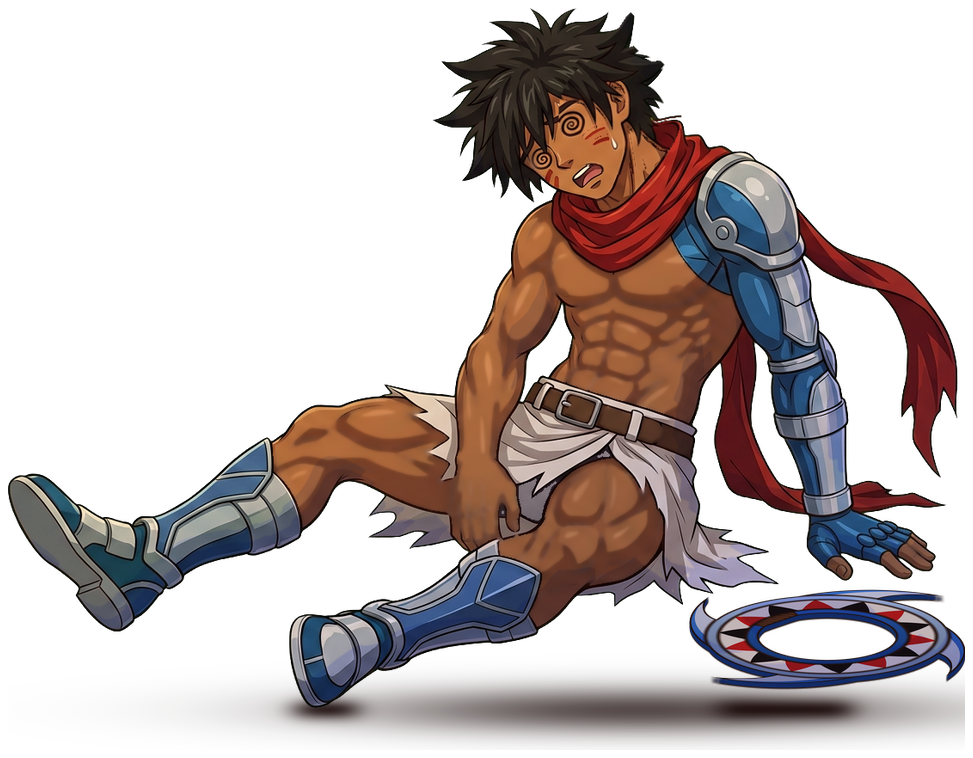
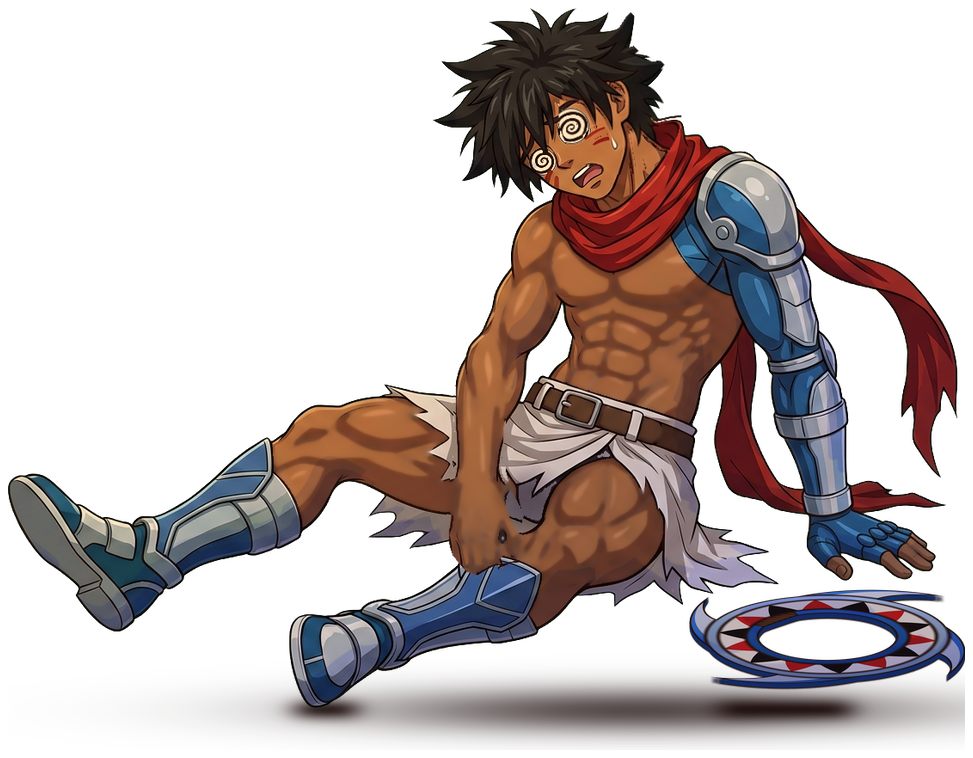
Characters r22 against the judges' round j18: a sprint lean (chest bent about 11.5 degrees at the hips plus a 4-degree slant, eased with the ground speed), a hang that keeps swinging with legs trailing the swing, bandits graded to the rocks' shade plum (muted, half the contrast), a KO still with rea

Changed region(s): [[0.4625, 0.5462, 0.5858, 0.7586], [0.5242, 0.1214, 0.6166, 0.2427]]

diff --git a/New/tools/art/hero_atlas_ai.py b/New/tools/art/hero_atlas_ai.py
@@ -497,6 +497,123 @@ def loincloth(a, still):
     return out
 
 
+## (round 22, the judges: "his swirl eyes read as dark smudges at phone size") the knock-out still's two swirl eyes (source
+## px: the spiral's middle and its outer radius), drawn bigger (grown from their top, so the brows and lids stay) as a
+## pale eye with the spiral inked on it: the classic dizzy eyes, readable at phone size
+KO_EYES = ((658.0, 138.0, 15.5), (621.5, 176.0, 12.5))
+KO_EYE_GROW = 1.2
+KO_EYE_WHITE = np.array([0.95, 0.92, 0.86])
+KO_EYE_INK = np.array([0.13, 0.06, 0.04])
+
+
+def ko_eyes(a):
+    """(round 22) The knock-out's swirl eyes (KO_EYES) redrawn KO_EYE_GROW times bigger: a pale eye (KO_EYE_WHITE), the old
+    spiral's dark lines on it in a dark brown ink, a thin ring of that ink round it; his hair, the red paint on his cheek
+    and the lines round the old eye (the brows, the lids, the cheek's outline) kept over it."""
+    out = a.copy()
+    rgb, al = a[..., :3], a[..., 3]
+    L = _lum(rgb)
+    sat = (rgb.max(-1) - rgb.min(-1)) / np.maximum(rgb.max(-1), 1e-4)
+    hair = ndi.binary_dilation(ndi.binary_opening((L < 0.14) & (sat < 0.6) & (al > 0.5), iterations=2), iterations=1)
+    red = (rgb[..., 0] > 0.45) & (rgb[..., 1] < 0.3) & (rgb[..., 0] > 1.6 * rgb[..., 1])
+    for cx, cy, r in KO_EYES:
+        s = KO_EYE_GROW
+        ax, ay = cx, cy - r  # grown from its top
+        R = (r + 1.0) * s  # the new eye's radius
+        ncx, ncy = ax + (cx - ax) * s, ay + (cy - ay) * s
+        x0, y0 = int(ncx - R - 3), int(ncy - R - 3)
+        x1, y1 = int(ncx + R + 4), int(ncy + R + 4)
+        yy, xx = np.mgrid[y0:y1, x0:x1].astype(np.float64)
+        d = np.hypot(xx - ncx, yy - ncy)
+        inside = np.clip(R + 0.5 - d, 0, 1)
+        sx, sy = ax + (xx - ax) / s, ay + (yy - ay) / s  # the old eye's px it shows
+        Ls = ndi.map_coordinates(L.astype(np.float64), [sy, sx], order=1)
+        line = np.clip((0.36 - Ls) / 0.18, 0, 1) * (np.hypot(sx - cx, sy - cy) <= r + 1.0)
+        ring = np.clip(1.0 - np.abs(d - (R - 0.9)) / 1.0, 0, 1)
+        ink = np.maximum(line, ring)[..., None]
+        eye = KO_EYE_WHITE * (1 - ink) + KO_EYE_INK * ink
+        old = np.hypot(xx - cx, yy - cy)
+        sl = (slice(y0, y1), slice(x0, x1))
+        keep = hair[sl] | red[sl] | ((L[sl] < 0.3) & (old > r + 2.0))
+        w = (inside * (al[sl] > 0.5) * ~keep)[..., None]
+        out[sl][..., :3] = rgb[sl] * (1 - w) + eye * w
+    return out
+
+
+## (round 22, the judges: "the KO's legs spread at the camera with a hand by the crotch") his bare hand moved off his
+## crotch onto his knee: the forearm and hand traced in the source's px (KO_ARM, just outside their ink), the forearm
+## stretched from KO_ARM_TOP down to the wrist (KO_WRIST) so the hand comes KO_HAND_DOWN px lower, its fingers over the
+## knee guard's rim; where the hand was, the cloth beside it carried in
+KO_ARM = [(521, 400), (521, 500), (519, 530), (516, 550), (513, 575), (513, 595), (517, 606), (525, 616), (534, 625),
+          (548, 630), (561, 628), (573, 620), (584, 615), (593, 614), (598, 606), (597, 592), (592, 579), (584, 565),
+          (579, 552), (576, 540), (575, 520), (575, 490), (577, 460), (579, 400)]
+KO_ARM_TOP, KO_WRIST = 440.0, 545.0
+KO_HAND_DOWN = 30.0
+
+
+def ko_hand(a):
+    """(round 22) The knock-out's bare hand resting on his knee guard instead of by his crotch (KO_ARM): the cloth seen
+    beside it left where it is; the arm drawn again, its forearm stretched and its hand moved down; each run of
+    a row of the scene it uncovers carried in from the side of the old arm it touches (the cloth beside the hand)."""
+    h, w = a.shape[:2]
+    rgb = a[..., :3]
+    L = _lum(rgb)
+    sat = (rgb.max(-1) - rgb.min(-1)) / np.maximum(rgb.max(-1), 1e-4)
+    trace = _polygon((h, w), KO_ARM)
+    behind = ((sat < 0.3) & (L > 0.22)) | ((rgb[..., 2] >= rgb[..., 0]) & (L > 0.06))  # cloth (grey, the navy left)
+    arm = ndi.binary_fill_holes(trace & ~ndi.binary_opening(behind, iterations=1)) & trace  # (the gap between fingers kept)
+    layer = a.astype(np.float64)
+    layer[..., 3] *= ndi.gaussian_filter(arm.astype(np.float64), 0.5) * ndi.binary_dilation(arm)
+    layer[..., :3] *= layer[..., 3:4]
+    yy, xx = np.mgrid[0:h, 0:w].astype(np.float64)
+    top, wrist, down = KO_ARM_TOP, KO_WRIST, KO_HAND_DOWN
+    sy = np.where(yy < wrist + down, top + (yy - top) * (wrist - top) / (wrist + down - top), yy - down)
+    sy = np.where(yy < top, yy, sy)
+    moved = np.dstack([ndi.map_coordinates(layer[..., c], [sy, xx], order=1) for c in range(4)])
+    hole = ndi.binary_dilation(arm, iterations=3)
+    hole[:int(top)] = False
+    shown = hole & (moved[..., 3] < 0.98)
+    base = a.astype(np.float64)
+    for y in np.nonzero(shown.any(1))[0]:
+        hx = np.nonzero(hole[y])[0]
+        lo, hi = hx.min(), hx.max()
+        xs = np.nonzero(shown[y])[0]
+        for run in np.split(xs, np.nonzero(np.diff(xs) > 1)[0] + 1):
+            s, e = run[0], run[-1]
+            n = e - s + 1
+            for x in run:
+                if e >= hi - 1:
+                    src = x + n
+                elif s <= lo + 1:
+                    src = x - n
+                else:
+                    src = 2 * (lo - 1) - x if x - lo < hi - x else 2 * (hi + 1) - x
+                base[y, x] = a[y, int(np.clip(src, 0, w - 1))]
+    pb = base.copy()
+    pb[..., :3] *= pb[..., 3:4]
+    comp = moved + pb * (1 - moved[..., 3:4])
+    ca = comp[..., 3:4]
+    out = base
+    out[..., :3] = np.where(ca > 1e-4, comp[..., :3] / np.maximum(ca, 1e-4), 0)
+    out[..., 3] = ca[..., 0]
+    return np.clip(out, 0, 1).astype(a.dtype)
+
+
+## (round 22) the shade under his loincloth (source px: middle x, y, radii x, y, strength): the cloth between his thighs
+## pulled down into it (lower contrast, cooler), so the lit face, chest and scarf lead
+KO_SHADE = (606.0, 566.0, 48.0, 42.0, 0.55)
+KO_SHADE_COLOUR = np.array([0.46, 0.38, 0.5])
+
+
+def ko_shade(a):
+    cx, cy, rx, ry, k = KO_SHADE
+    yy, xx = np.mgrid[0:a.shape[0], 0:a.shape[1]]
+    w = (np.clip(1.0 - ((xx - cx) / rx) ** 2 - ((yy - cy) / ry) ** 2, 0, 1) ** 1.5 * k)[..., None]
+    out = a.copy()
+    out[..., :3] = a[..., :3] * (1 - w + KO_SHADE_COLOUR * w)
+    return out
+
+
 FORM = 0.7  # (round 20) the stills' form shade: HeroView.FORM, the same light as in play (round 21: 0.46 -> 0.7)
 FORM_REACH = 0.6  # HeroView.FORM_REACH
 FORM_COLOUR = np.array([0.6, 0.58, 0.86])  # HeroView.FORM_COLOUR
@@ -549,6 +666,8 @@ def stills():
                                      ("defeat.png", "hero_defeat.png", DEFEAT_STILL_PX, DEFEAT_STILL_PX * 1.3)):
         a = np.asarray(Image.open(CUT / "r19" / src).convert("RGBA")).astype(np.float32) / 255.0
         a = loincloth(chakram(a, src[:-4]), src[:-4])
+        if src == "defeat.png":  # (round 22) readable swirl eyes, the hand on his knee, the loincloth's shade
+            a = ko_shade(ko_eyes(ko_hand(a)))
         if CALM:
             a = calm(a)
         a = bigger_head(a)
